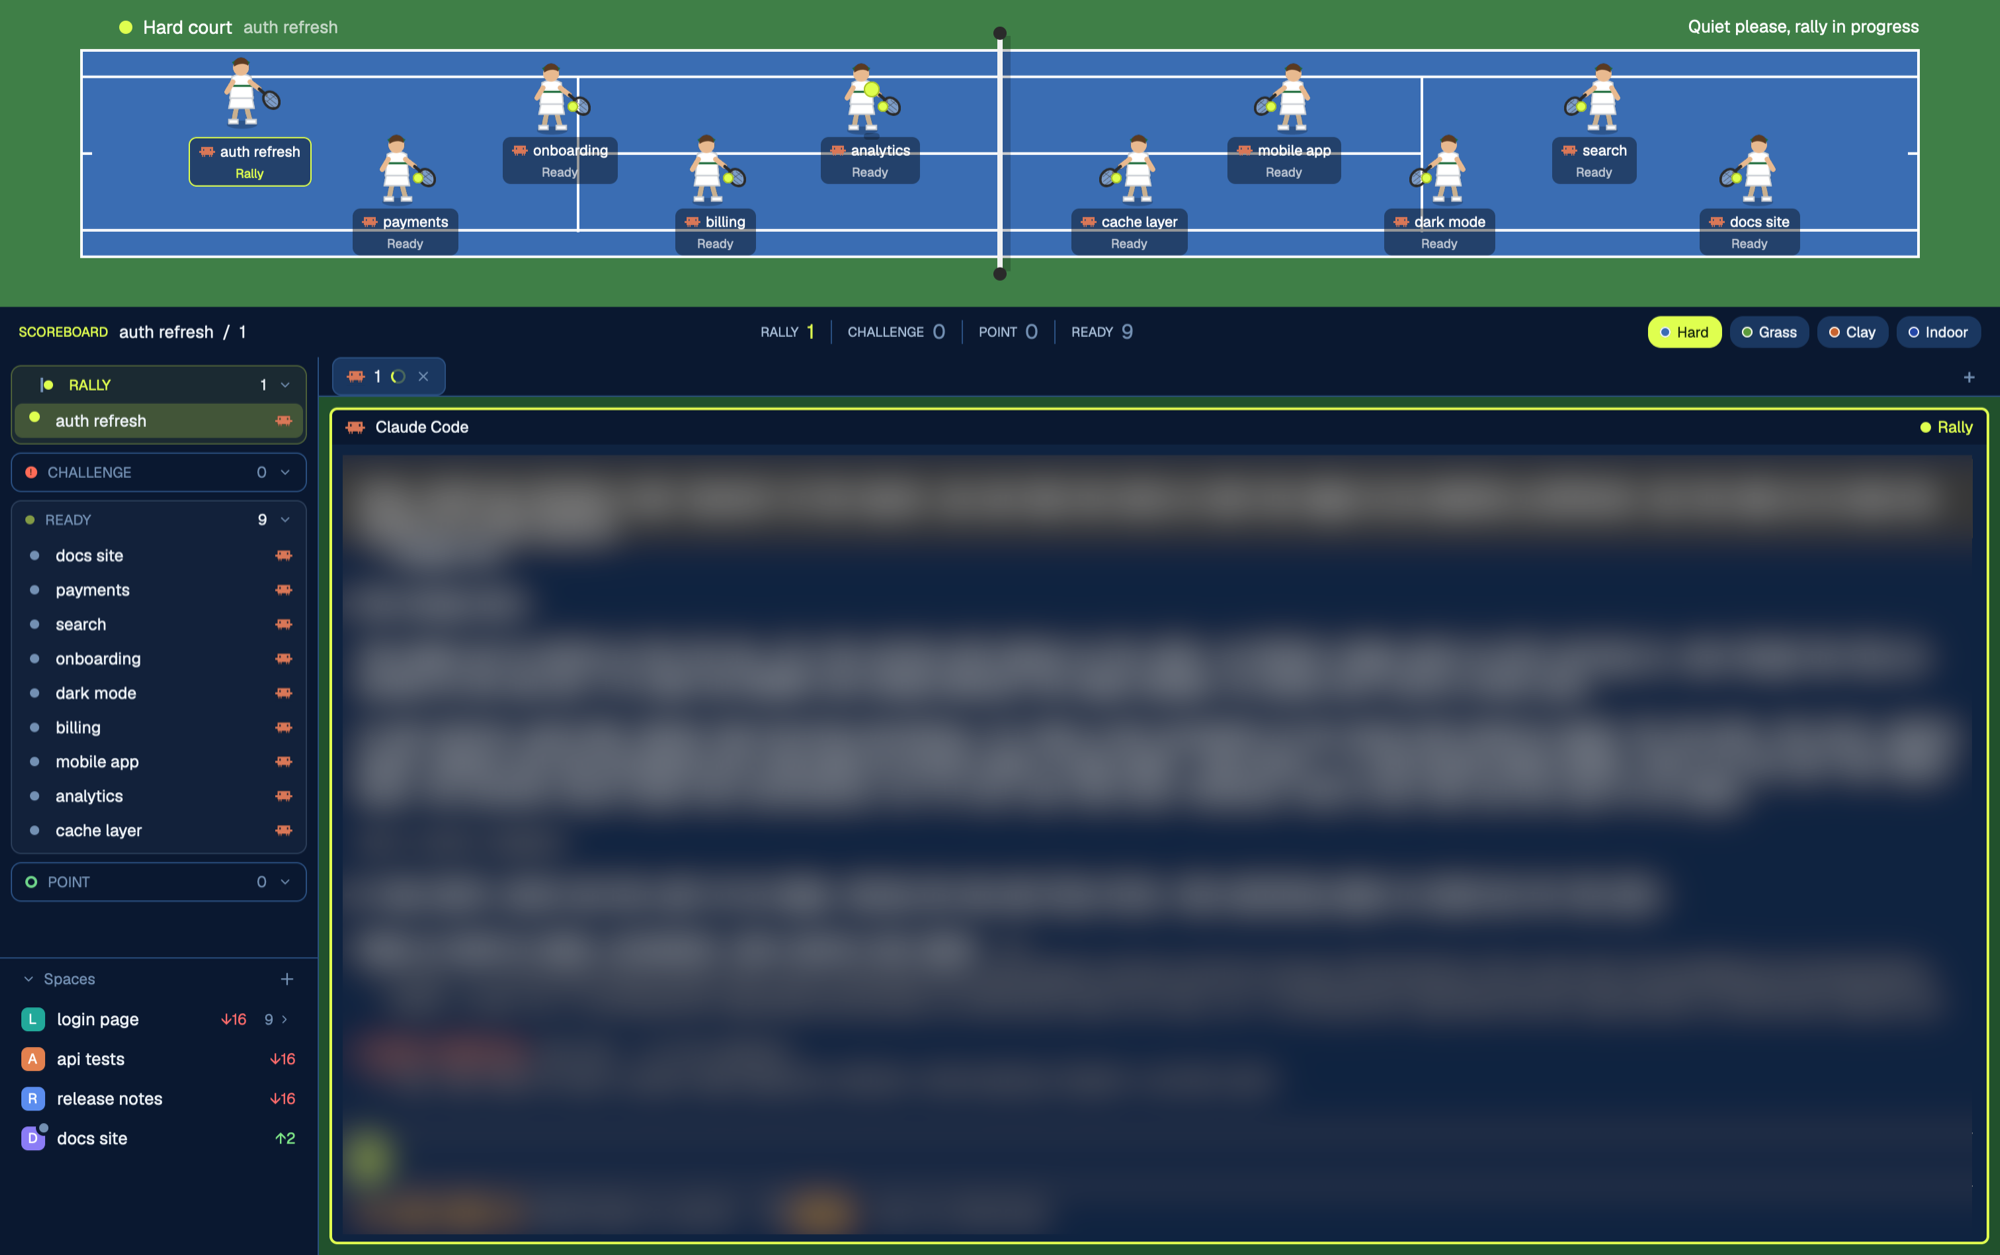
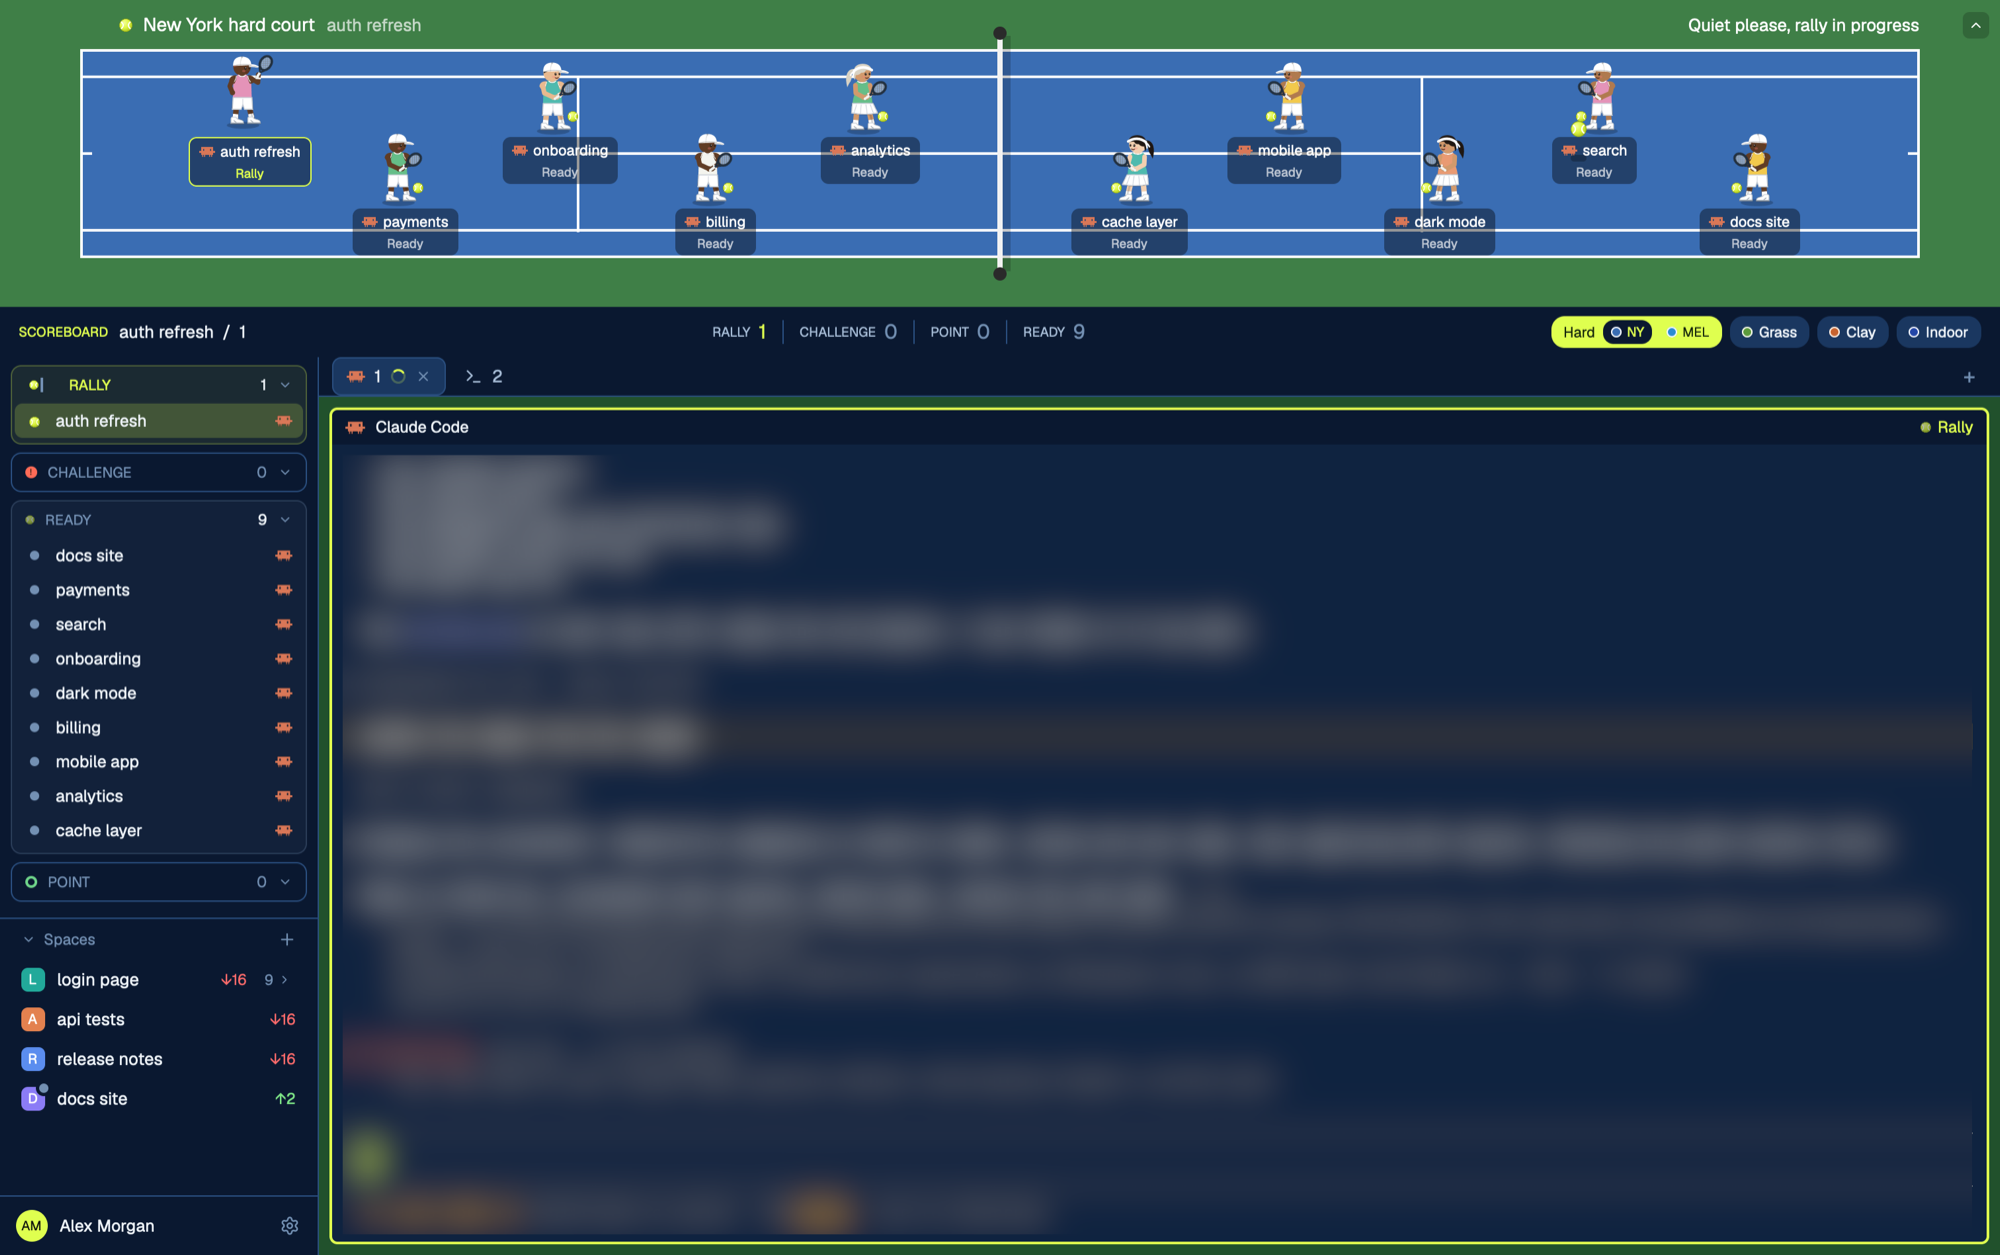
Retake the preview with the redrawn players and tennis balls

diff --git a/README.md b/README.md
@@ -2,7 +2,7 @@
 
 A layout for the [Herdr app](https://herdr.dev): your coding agents play tennis while they work. Five courts: hard (New York and Melbourne), grass, clay and indoor.
 
-![Tennis](preview.png?v=3)
+![Tennis](preview.png?v=4)
 
 ## Install
 
